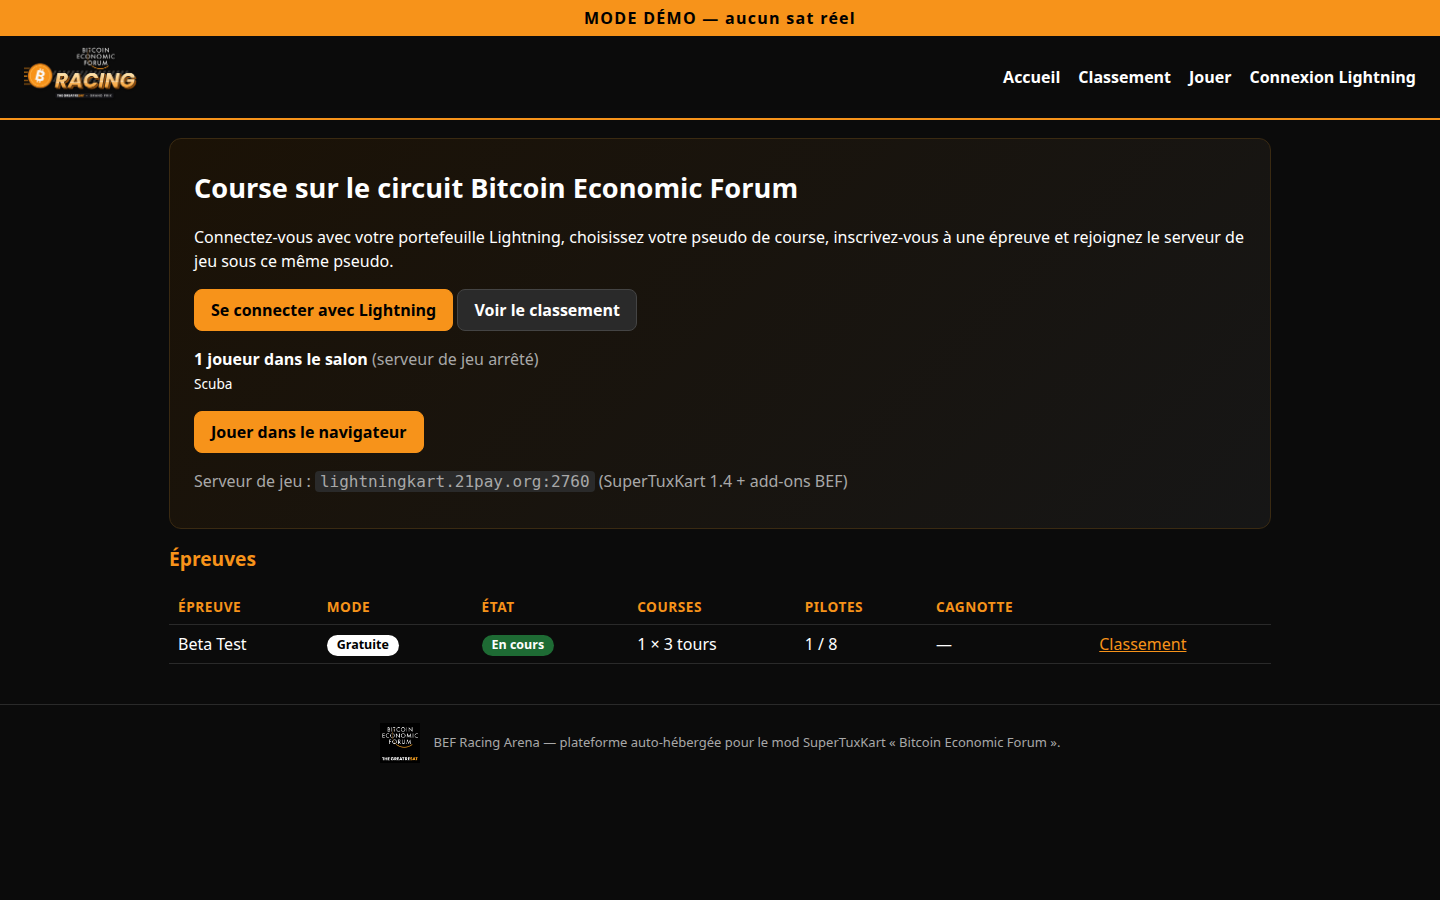
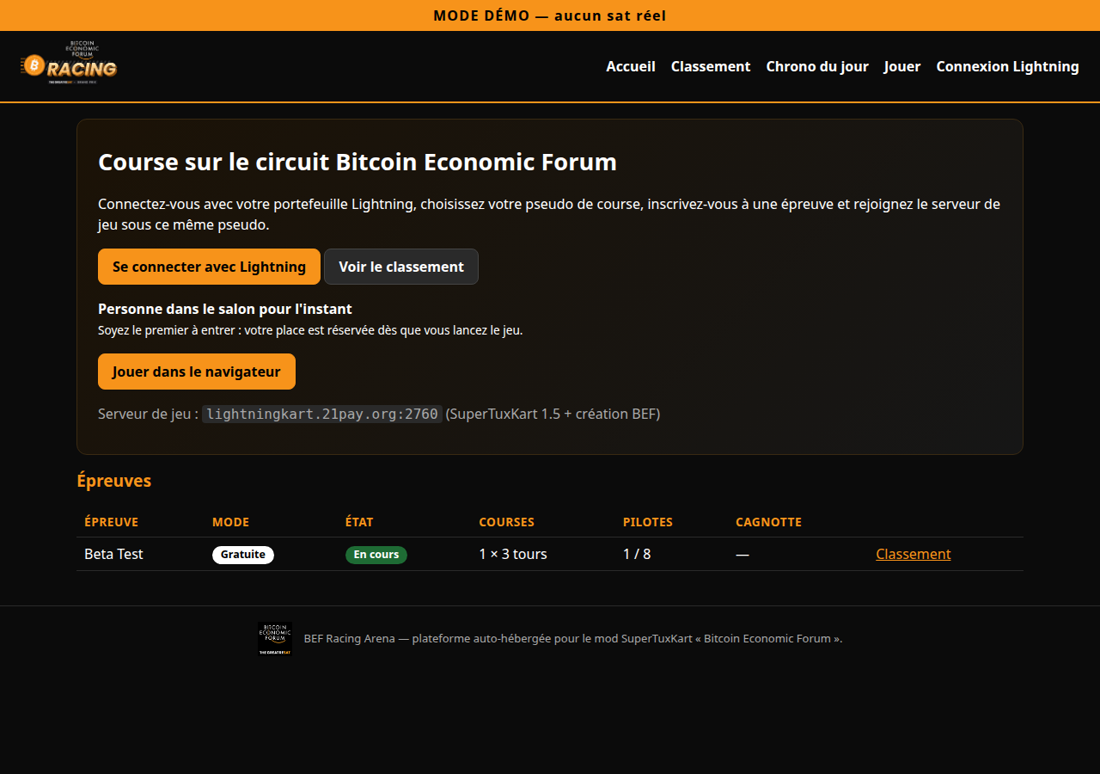
Vitrine : garage 3D, son, contre-la-montre et captures à jour

diff --git a/README.md b/README.md
@@ -33,18 +33,31 @@ affiche le temps d'attente.
   les joueurs se retrouvent donc réellement ensemble sur la piste.
 - **Un circuit unique, fait maison** : *Bitcoin Economic Forum*, 1,7 km, avec deux karts maison
   (**B.O.B Can** et **Les Chauffagistes**). Aucun kart standard : l'édition ne contient que ça.
+- **Un vrai menu, dans le navigateur** : garage 3D pour choisir son kart (on le fait tourner au doigt),
+  salon avec la liste des pilotes et un bouton « Je suis prêt », feux de départ, HUD (tour, chrono,
+  place), podium à l'arrivée.
+- **Le son du jeu** arrive aussi dans la page : musique et effets, dès le premier appui.
+- **Un contre-la-montre du jour** avec son classement, et un **grand écran** en lecture seule pour
+  projeter une soirée.
 - **Tout se pilote au doigt** : appuyer sur l'écran clique dans le jeu (choix du kart, menus), un bouton
   💬 permet d'écrire dans le chat du salon, même sans clavier.
 
 ![Le site](media/site-accueil.png)
 
+![Le garage, sur téléphone](media/garage-mobile.png)
+
+*Le garage : le kart se choisit au doigt, il sera pris automatiquement dans la course.*
+
 ![Le jeu sur téléphone en paysage](media/jeu-paysage.png)
+
+![Le contre-la-montre du jour](media/site-chrono.png)
 
 ## En chiffres (mesurés)
 
 | | |
 |---|---|
 | Fluidité | **60 images par seconde**, 6 Mbit/s par joueur |
+| Son | relayé dans la page, −25,8 dBFS (musique réelle, pas du silence) |
 | Latence verre à verre | **53 ms** (±16 ms) |
 | Joueurs simultanés mesurés | **4** sessions à 60 i/s chacune (2,2 Go de mémoire GPU au total) |
 | Démarrage d'une session | ~8 secondes |
